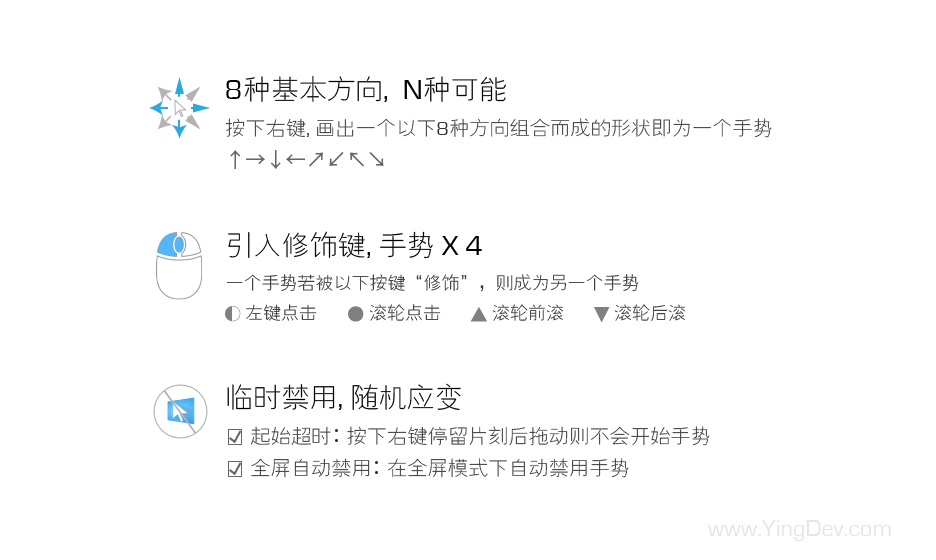
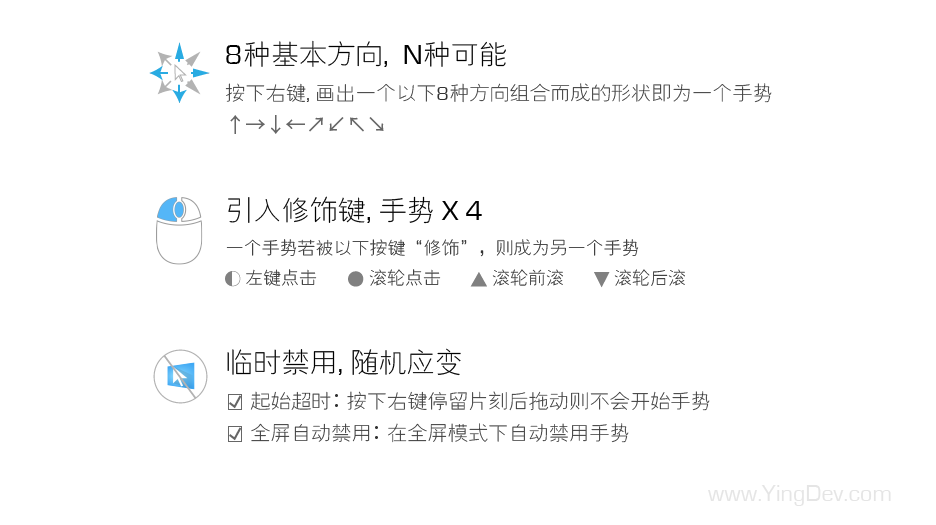
slides refine

diff --git a/WGestures.App/QuickStartGuide/index.html b/WGestures.App/QuickStartGuide/index.html
@@ -10,6 +10,7 @@
         html, body,ul {
             margin: 0;
             padding: 0;
+            background: white;
         }
 
         a {
@@ -27,7 +28,7 @@
         }
 
         .slidesjs-navigation {
-            top: 40%;
+            top: 35%;
             position: absolute;
             background: white;
             width: 80px;
@@ -65,7 +66,7 @@
             text-align: left;
             list-style: none;
             overflow: hidden;
-            margin-top: 10px;
+            margin-top: 20px;
         }
 
         .slidesjs-pagination li {
@@ -131,7 +132,7 @@
 
             $('#slides').slidesjs({
                 width: 936,
-                height: 560,
+                height: 525,
                 navigation: false,
                 effect: {
                     slide: {

diff --git a/WGestures.App/QuickStartGuide/QuickStartGuideForm.Designer.cs b/WGestures.App/QuickStartGuide/QuickStartGuideForm.Designer.cs
@@ -51,7 +51,7 @@ namespace WGestures.App.Gui.Windows
             this.web_container.Name = "web_container";
             this.web_container.ScriptErrorsSuppressed = true;
             this.web_container.ScrollBarsEnabled = false;
-            this.web_container.Size = new System.Drawing.Size(936, 560);
+            this.web_container.Size = new System.Drawing.Size(936, 535);
             this.web_container.TabIndex = 0;
             this.web_container.WebBrowserShortcutsEnabled = false;
             this.web_container.PreviewKeyDown += new System.Windows.Forms.PreviewKeyDownEventHandler(this.web_container_PreviewKeyDown);
@@ -62,7 +62,8 @@ namespace WGestures.App.Gui.Windows
             this.AutoScaleMode = System.Windows.Forms.AutoScaleMode.Dpi;
             this.AutoSize = true;
             this.AutoSizeMode = System.Windows.Forms.AutoSizeMode.GrowAndShrink;
-            this.ClientSize = new System.Drawing.Size(944, 534);
+            this.BackColor = System.Drawing.Color.White;
+            this.ClientSize = new System.Drawing.Size(469, 280);
             this.Controls.Add(this.web_container);
             this.FormBorderStyle = System.Windows.Forms.FormBorderStyle.FixedSingle;
             this.KeyPreview = true;
@@ -70,6 +71,7 @@ namespace WGestures.App.Gui.Windows
             this.MaximizeBox = false;
             this.MinimizeBox = false;
             this.Name = "QuickStartGuideForm";
+            this.Padding = new System.Windows.Forms.Padding(0, 20, 0, 20);
             this.StartPosition = System.Windows.Forms.FormStartPosition.CenterScreen;
             this.Text = "WGestures快速入门";
             this.Load += new System.EventHandler(this.QuickStartGuidForm_Load);
